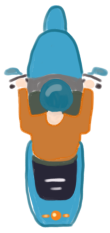
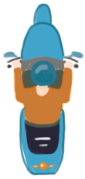
Add scooter

diff --git a/public/view/scooter.js b/public/view/scooter.js
@@ -1,0 +1,61 @@
+function preloadScooterImages() {
+	const scooterImages = [];
+	for (let i = 1; i <= 2; i++) {
+		scooterImages.push(loadImage(`images/objects/scooter/Scooter_${i}.png`));
+	}
+	return scooterImages;
+}
+
+class Scooter {
+	/**
+	 * @param {number} type 車子圖片的編號(1~2)，不提供的話會隨機選一個
+	 */
+	constructor(type = null) {
+		this.carSpeed = -2;
+        this.collided = false;
+		this.acc = 0.125;
+		this.colliderOffset = -20;
+		
+		if(type === null) {
+			this.carType = Math.floor(Math.random() * 2) + 1;
+		}
+	}
+
+	setup(startX = width/2, startY = height/4) {
+		let car = new Sprite(startX, startY);
+		car.img = scooterImages[this.carType - 1];
+
+
+		car.w += this.colliderOffset;
+		car.h += this.colliderOffset;
+		car.vel.y = this.carSpeed;
+		car.debug = true; // TODO: remove this debug feature
+		car.autoDraw = false;
+		allSprites.remove(car);
+		car.removeColliders();
+		car.addCollider(0, 0, 30, 170); // 比較長型的
+		car.addCollider(0, -30, 80, 55); // 比較寬的
+		car.mass = 5;
+		car.rotationLock = true; // 車被撞之後旋轉有點怪
+
+        showSparkWhenCollidePlayer(car, sparkController);
+		this.carSprite = car;
+	}
+
+	update() {
+		this.carSprite.position.y += this.carSprite.vel.y;
+
+		if(this.collided) {
+			// update speed by accerlation
+			this.carSprite.vel.y = min(0, this.carSprite.vel.y + this.acc);
+			this.carSprite.vel.x = min(0, this.carSprite.vel.x + this.acc);
+		}
+
+		this.carSprite.draw();
+		
+        if(this.carSprite.collide(playerController.getPlayer())) {
+			playerData.addScore(-1);
+			this.collided = true;
+		} 
+	}
+}
